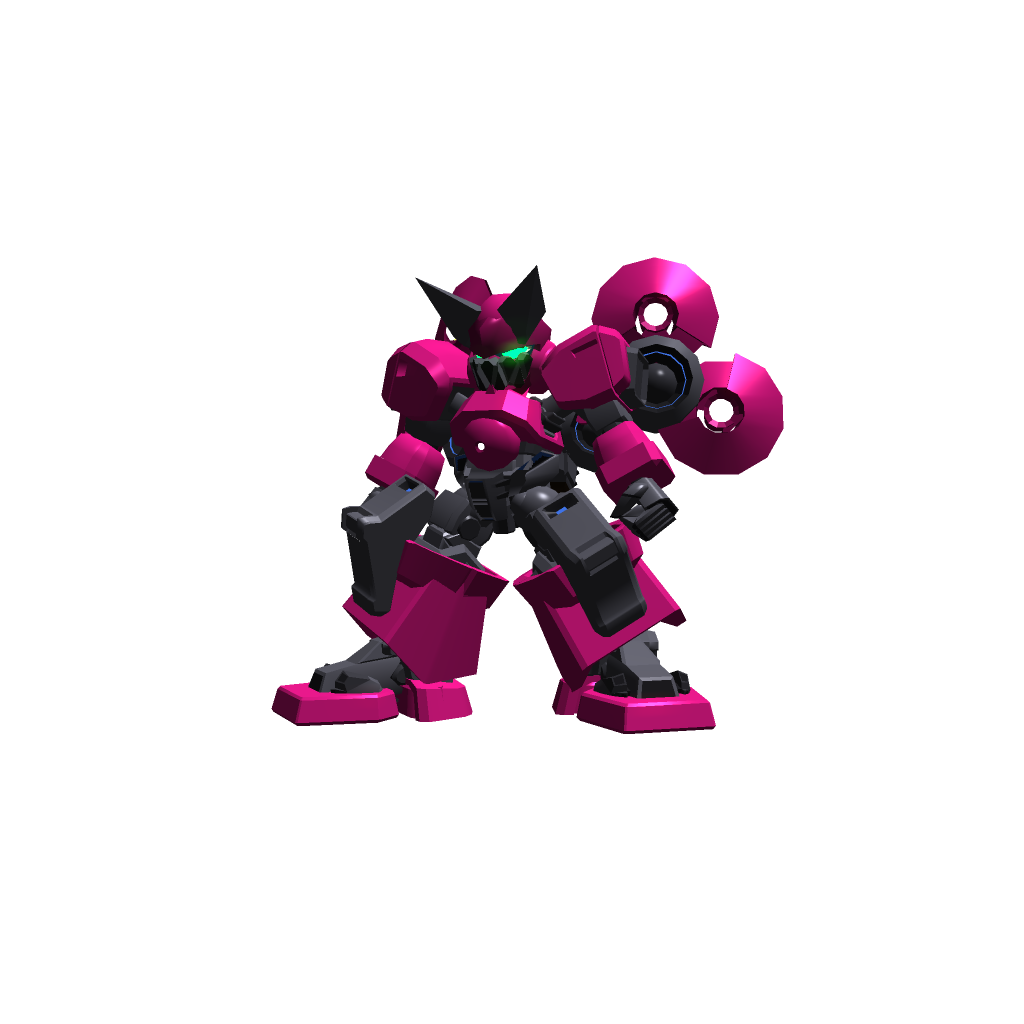
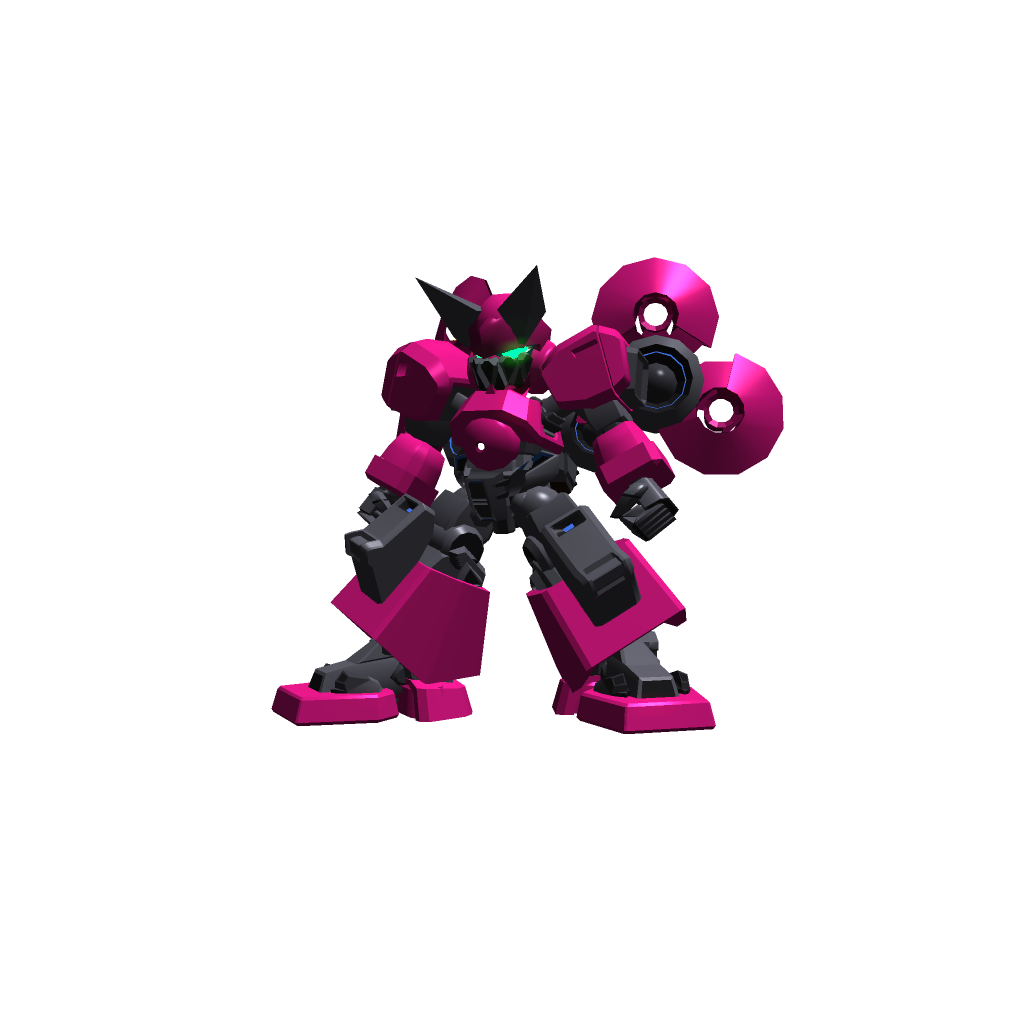
ネオランドーザのタックル画像を追加した

Changed region(s): [[0.3125, 0.4688, 0.6562, 0.6562]]

diff --git a/src/js/battle-room/dummy-battle-room.js b/src/js/battle-room/dummy-battle-room.js
@@ -6,6 +6,7 @@ import {ArmDozerIdList, ArmDozers} from "gbraver-burst-core";
 import type {NPC} from "../npc/npc";
 import {OfflineBattleRoom} from "./offline-battle-room";
 import {NeoLandozerNpc} from "../npc/neo-landozer-npc";
+import {LightningDozerNPC} from "../npc/lightning-dozer";
 
 /**
  * ダミーの戦闘ルームを生成する
@@ -17,7 +18,7 @@ export function createDummyBattleRoom(): BattleRoom {
     playerId: 'test01',
     armdozer: ArmDozers.find(v => v.id === ArmDozerIdList.SHIN_BRAVER) || ArmDozers[0]
   };
-  const npc: NPC = NeoLandozerNpc;
-  //const npc: NPC = LightningDozerNPC;
+  //const npc: NPC = NeoLandozerNpc;
+  const npc: NPC = LightningDozerNPC;
   return new OfflineBattleRoom(player, npc);
 }

diff --git a/src/js/resource/texture.js b/src/js/resource/texture.js
@@ -39,6 +39,7 @@ export const TEXTURE_IDS = {
   NEO_LANDOZER_GUTS_UP: 'NEO_LANDOZER_GUTS_UP',
   NEO_LANDOZER_GUTS_DOWN: 'NEO_LANDOZER_GUTS_DOWN',
   LIGHTNING_DOZER_STAND: 'LIGHTNING_DOZER_STAND',
+  LIGHTNING_DOZER_TACKLE: 'LIGHTNING_DOZER_TACKLE',
   HITMARK_SHOCK_WAVE_LINE: 'HITMARK_SHOCK_WAVE_LINE',
   HITMARK_SHOCK_WAVE_RING: 'HITMARK_SHOCK_WAVE_RING',
   BATTERY_NUMBER: 'BATTERY_NUMBER',
@@ -134,6 +135,10 @@ export const TEXTURE_CONFIGS: TextureConfig[] = [
   {
     id: TEXTURE_IDS.LIGHTNING_DOZER_STAND,
     path: 'armdozer/ligjtning-dozer/stand.png',
+  },
+  {
+    id: TEXTURE_IDS.LIGHTNING_DOZER_TACKLE,
+    path: 'armdozer/ligjtning-dozer/tackle.png',
   },
   // ヒットマーク関連
   {
